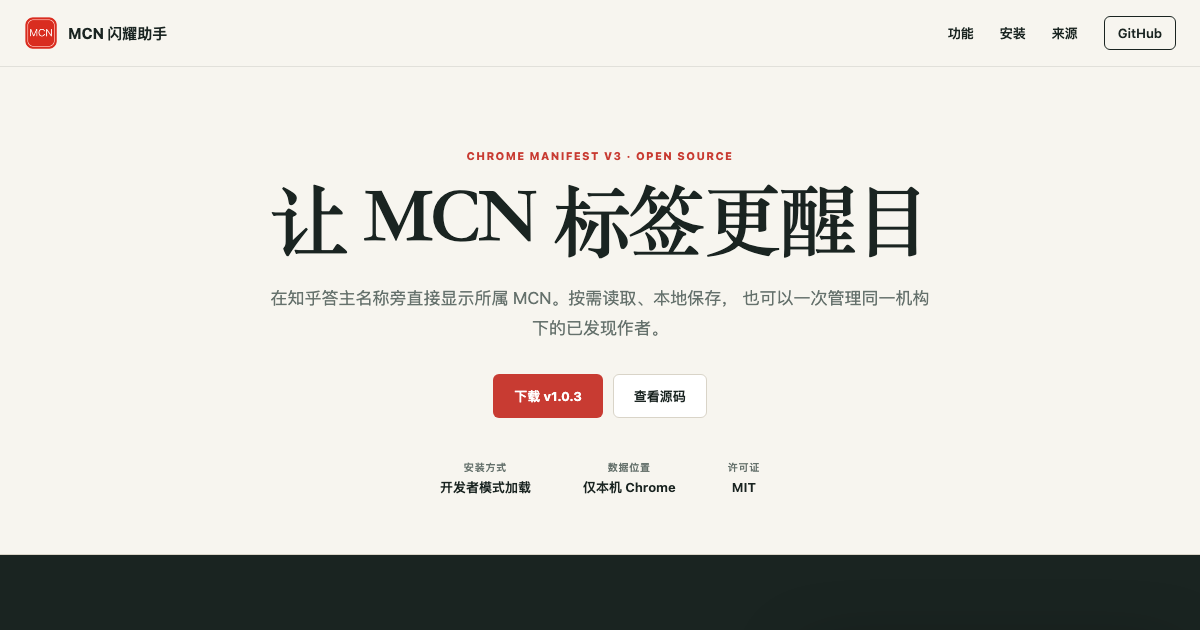
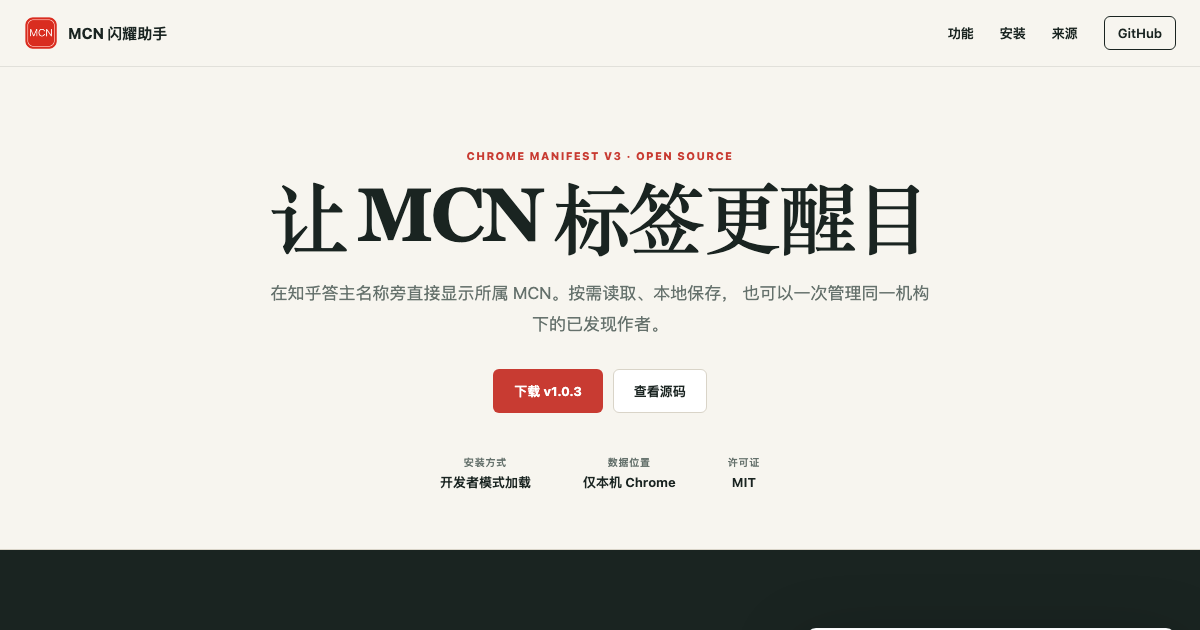
fix: vertically center title lettering

diff --git a/docs/styles.css b/docs/styles.css
@@ -130,13 +130,32 @@ p {
 }
 
 h1 {
+  display: flex;
+  flex-wrap: wrap;
+  align-items: center;
+  justify-content: center;
   max-width: 780px;
   margin: 0 auto;
+  column-gap: 0.14em;
+  row-gap: 0.04em;
   font-family: "Songti SC", "STSong", Georgia, serif;
   font-size: clamp(44px, 7vw, 78px);
   font-weight: 700;
-  line-height: 1.06;
+  line-height: 1;
   letter-spacing: -0.035em;
+}
+
+.title-chinese,
+.title-latin {
+  display: inline-flex;
+  align-items: center;
+  line-height: 1;
+}
+
+.title-latin {
+  min-height: 1em;
+  font-family: Georgia, "Times New Roman", serif;
+  font-size: 0.96em;
 }
 
 .lead {

diff --git a/docs/index.html b/docs/index.html
@@ -50,7 +50,11 @@
       <section class="intro">
         <div class="intro-inner">
           <p class="eyebrow">CHROME MANIFEST V3 · OPEN SOURCE</p>
-          <h1>让 MCN 标签更醒目</h1>
+          <h1>
+            <span class="title-chinese">让</span>
+            <span class="title-latin">MCN</span>
+            <span class="title-chinese">标签更醒目</span>
+          </h1>
           <p class="lead">
             在知乎答主名称旁直接显示所属 MCN。按需读取、本地保存，
             也可以一次管理同一机构下的已发现作者。
